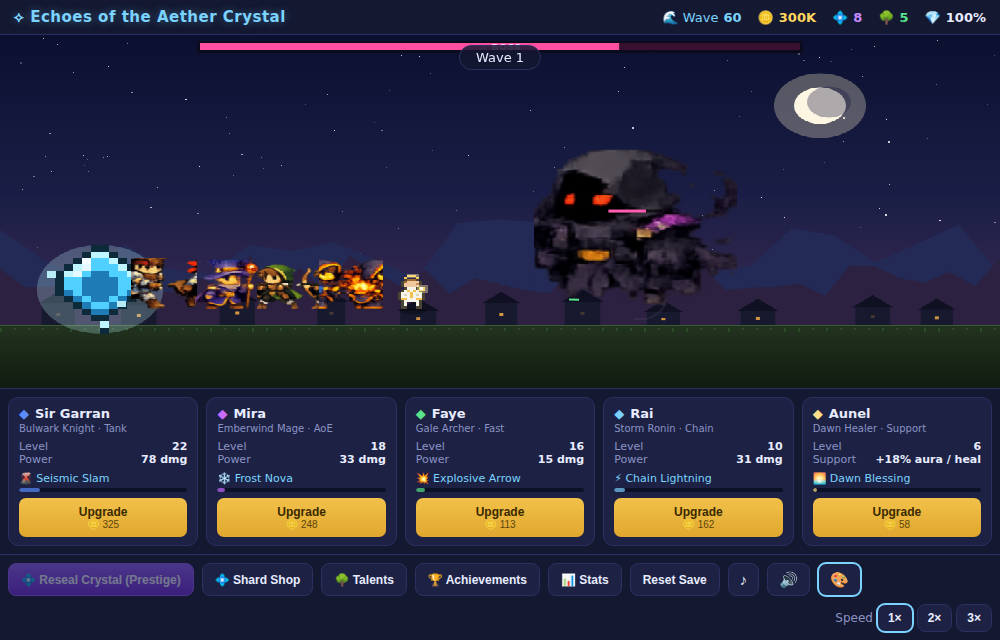
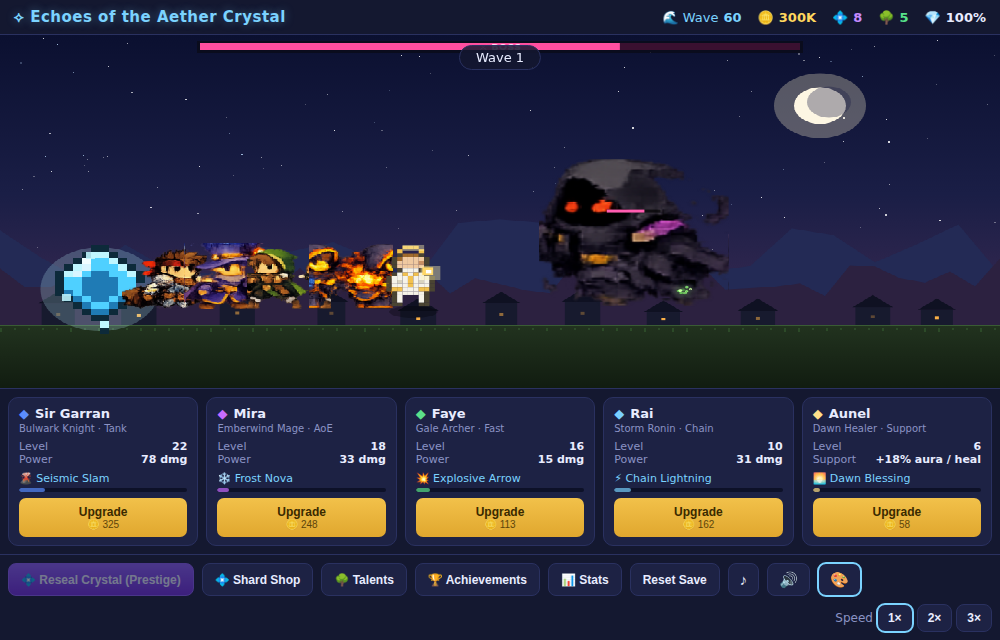
Fix character scale: larger, uniform, no size pop
- Give all sheet heroes one shared fit (bigger) so they render at a consistent
  on-screen size; measured idle/walk/attack/cast now match per character.
- Scale the canvas fallback up ~1.8x so Aunel (no sheet) and any not-yet-loaded
  hero match the larger sheet heroes instead of appearing tiny.
- Preload all sheets at boot so heroes don't briefly draw as small canvas art
  and then pop to full-size sheet art.

verify7 and the full sheet suite still pass.

Claude-Session: https://claude.ai/code/session_0137Kmgx8usseqRPpPc7daxH

diff --git a/sheets.js b/sheets.js
@@ -26,12 +26,15 @@ window.Sheets = (function () {
                                 attack:{row:2,frames:a,fps:12}, cast:{row:3,frames:c,fps:11} });
   // flip:true mirrors the sprite horizontally so it faces the incoming enemies
   // (right). Aunel has no sheet and uses the built-in canvas art.
+  // sliced sheets pack every character at the same body height, so heroes share
+  // one fit for a consistent on-screen size.
+  const HFIT = 1.6;
   const SHEET_CONFIG = {
-    garran: { file:'warrior.png',  rows:4, cols:5, fit:1.25, flip:true, anim:rows4(5,2,1,1) },  // Knight  (warrior art)
-    mira:   { file:'wizard.png',   rows:4, cols:8, fit:1.20, flip:true, anim:rows4(5,8,2,2) },  // Mage    (purple wizard art)
-    faye:   { file:'archer.png',   rows:4, cols:5, fit:1.20, flip:true, anim:rows4(5,5,1,2) },  // Archer
-    rai:    { file:'sorcerer.png', rows:4, cols:5, fit:1.22, flip:true, anim:rows4(5,1,1,1) },  // Ronin   (elemental sorcerer art)
-    boss:   { file:'shadow.png',   rows:4, cols:5, fit:1.6,  flip:true, anim:rows4(2,5,1,2) },  // Boss    (shadow mage art)
+    garran: { file:'warrior.png',  rows:4, cols:5, fit:HFIT, flip:true, anim:rows4(5,2,1,1) },  // Knight  (warrior art)
+    mira:   { file:'wizard.png',   rows:4, cols:8, fit:HFIT, flip:true, anim:rows4(5,8,2,2) },  // Mage    (purple wizard art)
+    faye:   { file:'archer.png',   rows:4, cols:5, fit:HFIT, flip:true, anim:rows4(5,5,1,2) },  // Archer
+    rai:    { file:'sorcerer.png', rows:4, cols:5, fit:HFIT, flip:true, anim:rows4(5,1,1,1) },  // Ronin   (elemental sorcerer art)
+    boss:   { file:'shadow.png',   rows:4, cols:5, fit:1.5,  flip:true, anim:rows4(2,5,1,2) },  // Boss    (shadow mage art)
   };
 
   const imgs = {};   // id -> { img, ok, failed }
@@ -99,5 +102,7 @@ window.Sheets = (function () {
     return true;
   }
 
-  return { draw, load, ready, has, isEnabled, setEnabled, CONFIG: SHEET_CONFIG };
+  function preload(){ if (enabled) Object.keys(SHEET_CONFIG).forEach(load); }
+
+  return { draw, load, ready, has, preload, isEnabled, setEnabled, CONFIG: SHEET_CONFIG };
 })();

diff --git a/game.js b/game.js
@@ -736,8 +736,13 @@ function draw(now){
     if (!drewSheet){
       const frame = (heroFlash[slot.def.id] > 0) ? 1 : (Math.floor(now/350)%2);
       const fn = Spr()[slot.def.draw];
-      if (fn) fn(ctx, slot.x, slot.y, size, frame);
-      else drawFallbackChar(slot.x, slot.y, size, slot.def.color);
+      if (fn){
+        // scale the canvas art up so it matches the (larger) sheet heroes
+        ctx.save();
+        ctx.translate(slot.x, slot.y); ctx.scale(1.8, 1.8);
+        fn(ctx, 0, 0, size, frame);
+        ctx.restore();
+      } else drawFallbackChar(slot.x, slot.y, size, slot.def.color);
     }
   }
 
@@ -1108,6 +1113,7 @@ window.addEventListener('keydown', audioUnlock);
 // ------------------------------------------------------------------ boot
 function boot(){
   S = load() || freshState();
+  if (window.Sheets && Sheets.preload) Sheets.preload();   // avoid canvas→sheet size pop
   resize();
   applyOffline();
   checkAchievements();
